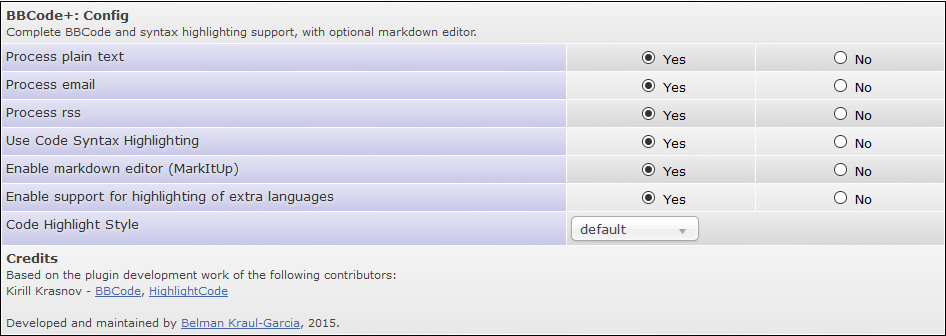
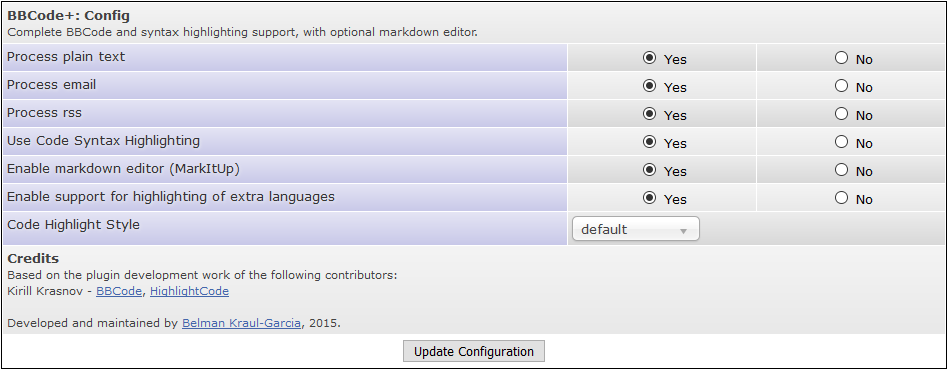
Corrected bug on config.php (missing update button)

Changed region(s): [[0.0, 0.0, 1.0, 1.0]]

diff --git a/BBCodePlus/pages/config.php b/BBCodePlus/pages/config.php
@@ -139,6 +139,12 @@ print_manage_menu( );
 	</td>
 </tr>
 
+<tr>
+	<td class="center" colspan="3">
+		<input type="submit" class="button" value="<?php echo lang_get( 'change_configuration' )?>" />
+	</td>
+</tr>
+
 
 </table>
 </form>
